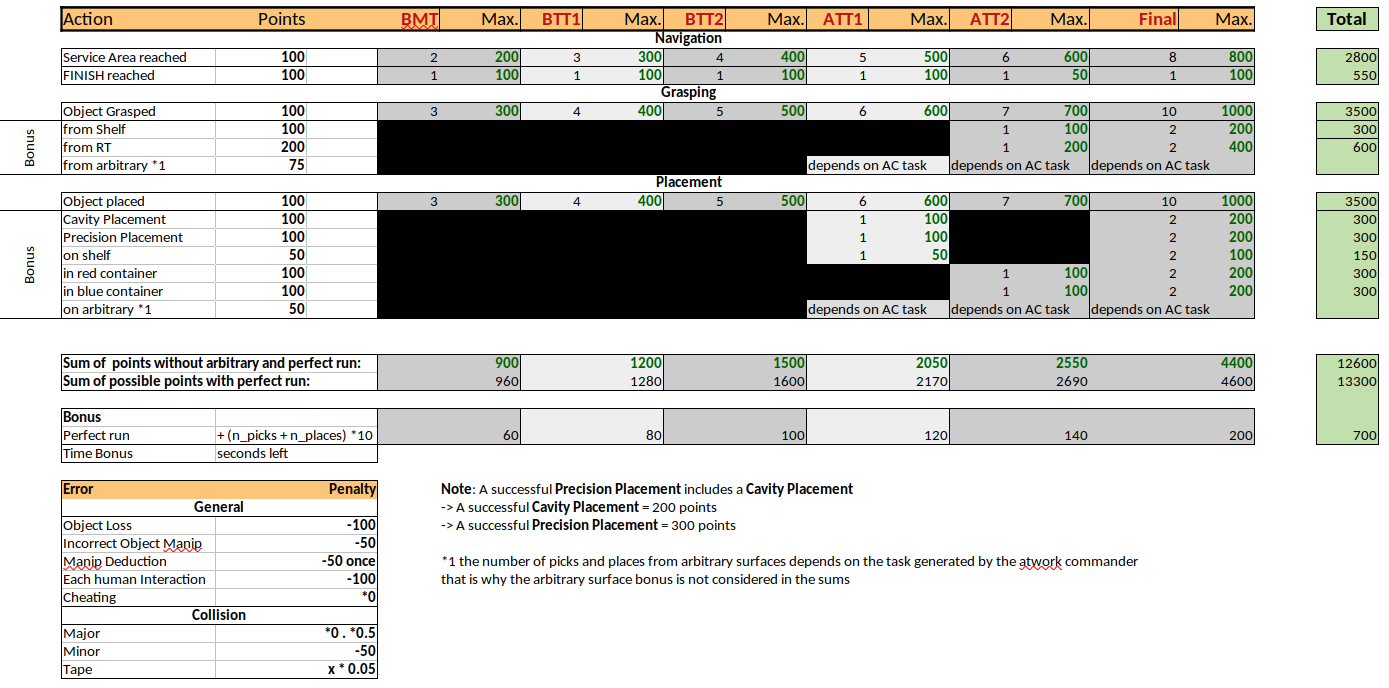
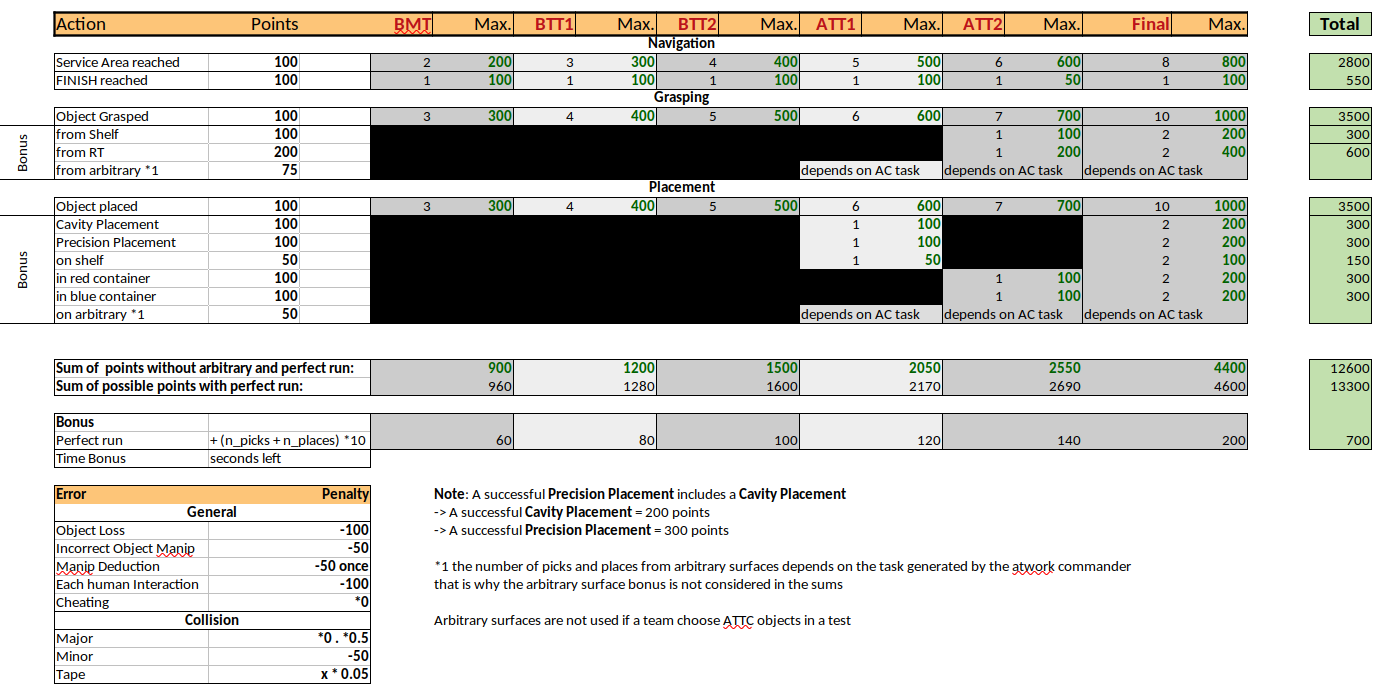
No Arbitrary Surfaces with April tagged cubes

diff --git a/general_rules/General_Design.tex b/general_rules/General_Design.tex
@@ -405,7 +405,7 @@ This makes smaller physical layouts possible that still provide the ability to c
 \subsection{Arbitrary Surfaces and Decoys}
 \label{subsec:Arbitrary_Surfaces_and_Decoys}
 
-In order to make the operating environment more realistic, the Service Areas may contain different kinds of Arbitrary Surfaces (Figure \ref{fig:ast_surface_example}) with industrial items as Decoys (Figure \ref{fig:ast_example}). The Arbitrary Surfaces don't have to be fixed mounted at the Service Areas. Examples of Arbitrary Surfaces can be different wood pattern, grass, alufoil, plexiglas etc. The integration of Arbitrary Surfaces and Decoys into tests is according the table \ref{fig:test_specifications_instance}.
+In order to make the operating environment more realistic, the Service Areas may contain different kinds of Arbitrary Surfaces (Figure \ref{fig:ast_surface_example}) with industrial items as Decoys (Figure \ref{fig:ast_example}). The Arbitrary Surfaces don't have to be fixed mounted at the Service Areas. Examples of Arbitrary Surfaces can be different wood pattern, grass, alufoil, plexiglas etc. The integration of Arbitrary Surfaces and Decoys into tests is according the table \ref{fig:test_specifications_instance}. If a team choose AprilTag objects in a test then no arbitrary surfaces will be used.
 
 
 \begin{figure}[h!]

diff --git a/general_rules/Scoring_and_Ranking.tex b/general_rules/Scoring_and_Ranking.tex
@@ -37,7 +37,7 @@ Teams may use simplifications, which will result in a reduction of scores for th
 \subsection{Using April Tag Tagged Cubes as Objects}
 Real objects are replaced by the April Tag tagged cubes (ATTC)  described in \ref{ssec: April Tagged Object Set}.
 Each ATTC is encoded with the matching object ID as defined in the Atwork Commander.
-Manipulation tasks count as successful if an atc with a matching object ID is handled correctly. Using this option adds a penalty factor of 50\% to all manipulation points gained.
+Manipulation tasks count as successful if an ATTC with a matching object ID is handled correctly. Using this option adds a penalty factor of 50\% to all manipulation points gained. If a test contains arbitrary surfaces, the surfaces are not used and additional points for manipulating at arbitrary surfaces are not rewarded.
 
 
 %\begin{itemize}
